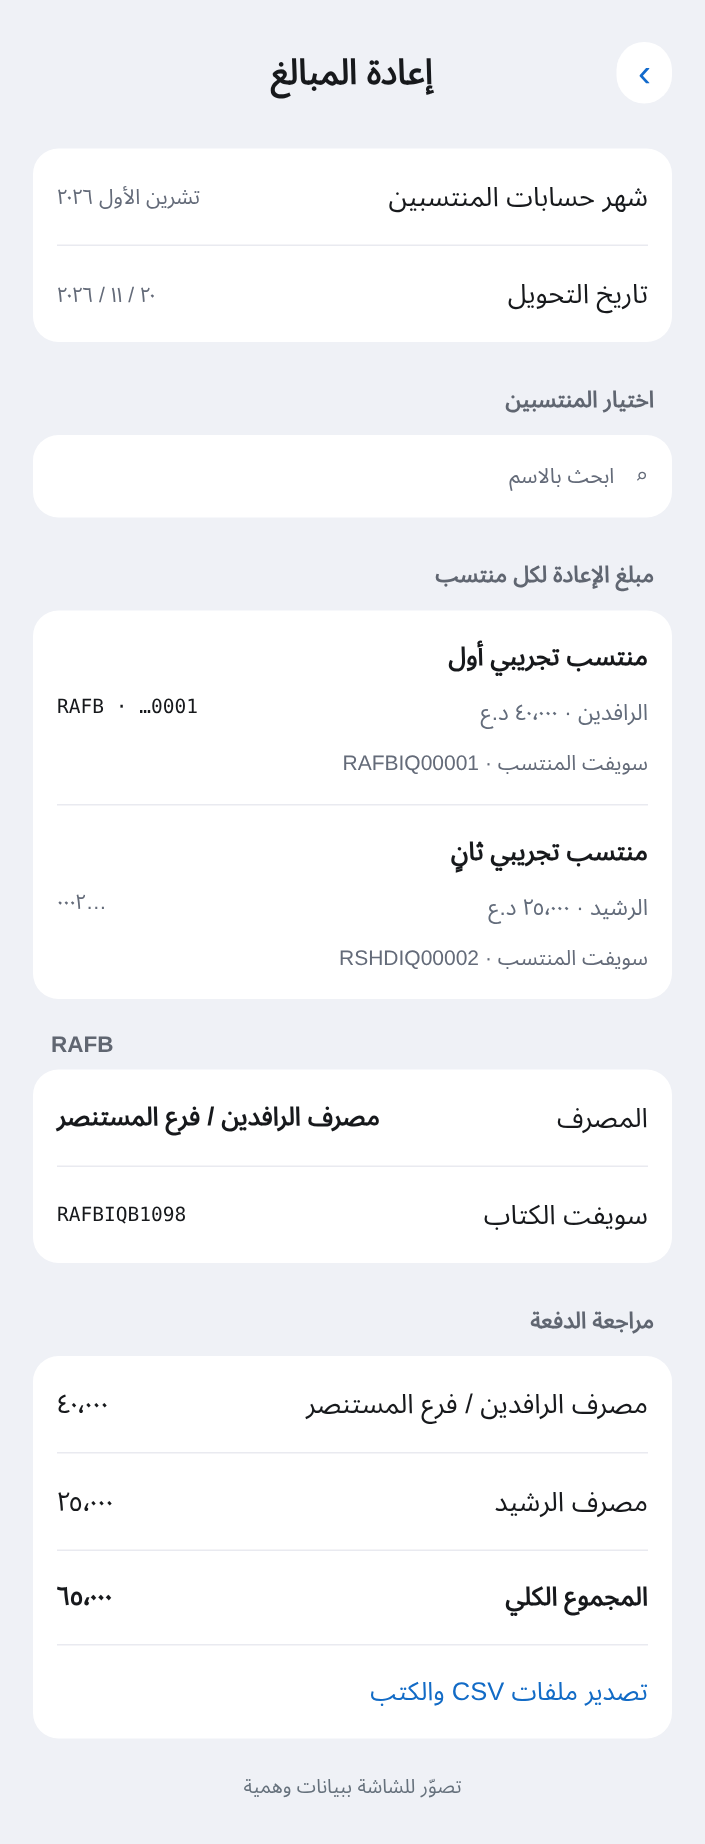
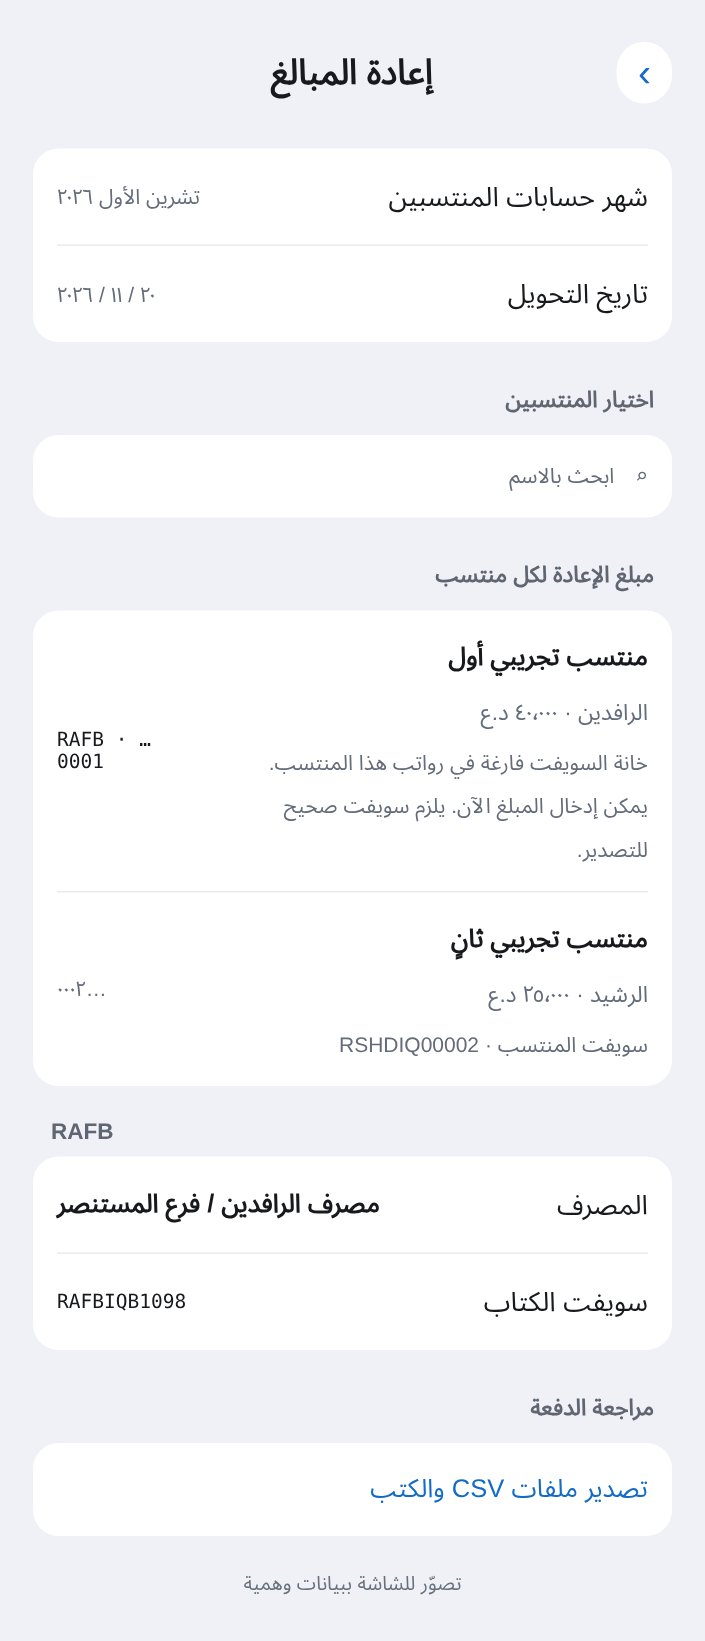
Allow refund drafts with unresolved payroll SWIFT and explain the issue

diff --git a/SalaryApp/EmployeeRefund.swift b/SalaryApp/EmployeeRefund.swift
@@ -8,7 +8,25 @@ nonisolated struct RefundPerson: Hashable, Sendable {
     let workplace: String
     let iban: String
     let bank: String
-    let payrollBIC: String
+    let payrollBIC: RefundPayrollBIC
+
+    var bicWarning: String? { payrollBIC.warning(bankCode: EmployeeRefund.bankCode(iban)) }
+}
+
+nonisolated enum RefundPayrollBIC: Hashable, Sendable {
+    case missingColumn, empty, conflicting, value(String)
+
+    func warning(bankCode: String?) -> String? {
+        switch self {
+        case .missingColumn: return tr("لم يُتعرّف على عمود السويفت في صف الراتب المحفوظ.", "No recognized SWIFT column in the saved payroll row.")
+        case .empty: return tr("خانة السويفت فارغة في رواتب هذا المنتسب.", "The employee’s payroll SWIFT field is empty.")
+        case .conflicting: return tr("صف الراتب يحتوي أكثر من رمز سويفت مختلف.", "The payroll row contains conflicting SWIFT codes.")
+        case .value(let bic):
+            guard TransferRules.validBIC(bic) else { return tr("صيغة سويفت المنتسب غير صالحة.", "The employee’s SWIFT format is invalid.") }
+            if let bankCode, !bic.hasPrefix(bankCode + "IQ") { return tr("سويفت المنتسب لا يطابق مصرف الآيبان.", "The employee’s SWIFT does not match the IBAN bank.") }
+            return nil
+        }
+    }
 }
 
 nonisolated struct RefundBank: Equatable, Sendable {
@@ -70,21 +88,22 @@ nonisolated enum EmployeeRefund {
     ].map(headerKey))
 
     // الأعمدة الأصلية تشمل الحقول غير المعروفة وقت الاستيراد وتحتفظ بالعناوين المكررة.
-    static func payrollBIC(details: [String: String], columns: PayrollColumnSnapshot?) -> String {
+    static func payrollBIC(details: [String: String], columns: PayrollColumnSnapshot?) -> RefundPayrollBIC {
+        var foundColumn = false
         var codes = Set<String>()
         func collect(_ header: String, _ value: String) {
             guard bicHeaders.contains(headerKey(header)) else { return }
-            let code = ArabicText.latinDigits(value.trimmingCharacters(in: .whitespacesAndNewlines)).uppercased()
+            foundColumn = true
+            let clean = value.unicodeScalars.filter { $0.properties.generalCategory != .format }
+            let code = ArabicText.latinDigits(String(String.UnicodeScalarView(clean)).trimmingCharacters(in: .whitespacesAndNewlines)).uppercased()
             if !code.isEmpty { codes.insert(code) }
         }
         for (header, value) in details { collect(header, value) }
         if let columns {
             for (header, value) in zip(columns.headers, columns.values) { collect(header, value) }
         }
-        return codes.count == 1 ? codes.first ?? "" : ""
-    }
-    static func validPayrollBIC(_ bic: String, bankCode: String) -> Bool {
-        TransferRules.validBIC(bic) && bic.hasPrefix(bankCode + "IQ")
+        guard let first = codes.first else { return foundColumn ? .empty : .missingColumn }
+        return codes.count == 1 ? .value(first) : .conflicting
     }
     static func amount(_ value: String) -> Int64? {
         let clean = ArabicText.latinDigits(value.trimmingCharacters(in: .whitespacesAndNewlines)).replacingOccurrences(of: "٬", with: ",")
@@ -109,9 +128,9 @@ nonisolated enum EmployeeRefund {
             guard let code = bankCode(iban), iban != account, TransferRules.safeField(name) else {
                 throw error("راجع اسم المنتسب وآيبانه: " + name, "Check employee name and IBAN: " + name)
             }
-            guard validPayrollBIC(entry.person.payrollBIC, bankCode: code) else {
-                throw error("راجع سويفت المنتسب في ملف الرواتب ثم أعد استيراد الشهر: " + name,
-                            "Check this employee’s SWIFT in payroll and reimport the month: " + name)
+            guard case .value(let bic) = entry.person.payrollBIC, entry.person.bicWarning == nil else {
+                let reason = entry.person.bicWarning ?? tr("راجع السويفت.", "Check SWIFT.")
+                throw error(name + " — " + reason, name + " — " + reason)
             }
             guard seen.insert(iban).inserted else {
                 throw error("الآيبان مكرر بين المستفيدين: " + name, "Repeated beneficiary IBAN: " + name)
@@ -120,7 +139,7 @@ nonisolated enum EmployeeRefund {
                 throw error("راجع المبلغ بالدينار للمنتسب: " + name, "Check the IQD amount for " + name)
             }
             total += value
-            groups[code, default: []].append(Payment(name: name, iban: iban, amount: value, bic: entry.person.payrollBIC))
+            groups[code, default: []].append(Payment(name: name, iban: iban, amount: value, bic: bic))
         }
         let result: [Group] = try groups.keys.sorted().map { code in
             guard let bank = (code == rafidainCode ? rafidainBank : banks[code]), let payments = groups[code] else { throw error("بيانات المصرف ناقصة: " + code, "Missing bank: " + code) }

diff --git a/ci/employee_refund_test/main.swift b/ci/employee_refund_test/main.swift
@@ -9,7 +9,7 @@ func iban(_ code: String, _ serial: Int) -> String {
 }
 func entry(_ code: String, _ serial: Int, _ amount: String, bic: String? = nil) -> EmployeeRefund.Entry {
     .init(person: .init(name: "منتسب تجريبي " + String(serial), rank: "", workplace: "", iban: iban(code, serial), bank: code,
-        payrollBIC: bic ?? code + "IQ00" + String(format: "%03d", serial)), amount: amount)
+        payrollBIC: .value(bic ?? code + "IQ00" + String(format: "%03d", serial))), amount: amount)
 }
 let payer = iban("RAFB", 99)
 let entries = [entry("RAFB", 1, "١٠٬٠٠٠"), entry("RSHD", 2, "4,000"), entry("OTHR", 3, "2500"), entry("RSHD", 4, "500")]
@@ -52,7 +52,7 @@ for group in batch.groups {
     let csv = EmployeeRefund.csv(group, batch: batch, day: "20260101")
     for line in String(decoding: csv, as: UTF8.self).components(separatedBy: "\r\n").dropFirst() {
         let fields = line.components(separatedBy: "|")
-        precondition(fields.count == 11 && refs.insert(fields[0]).inserted && entries.contains { $0.person.iban == fields[8] && $0.person.payrollBIC == fields[6] })
+        precondition(fields.count == 11 && refs.insert(fields[0]).inserted && entries.contains { $0.person.iban == fields[8] && $0.person.payrollBIC == .value(fields[6]) })
         precondition(EmployeeRefund.bankCode(fields[8]) == group.code && fields[9].contains("إعادة"))
         precondition(expectedAmounts.removeValue(forKey: fields[8]) == fields[4])
         csvSum += Int64(fields[4])!
@@ -84,10 +84,10 @@ precondition(EmployeeRefund.csv(changed.groups[0], batch: changed, day: "2026010
 
 // تُستخدم خلايا الرواتب المحفوظة في اللقطة حتى لو سبق الاستيراد هذه الميزة.
 let raw = PayrollColumnSnapshot.decode(PayrollColumnSnapshot.encode(headers: ["IBAN","رمز السويفت","Receiver BIC"], values: ["ignored"," rshdiq00002 ","RSHDIQ٠٠٠٠٢"]))
-precondition(EmployeeRefund.payrollBIC(details: [:], columns: raw) == "RSHDIQ00002")
-precondition(EmployeeRefund.payrollBIC(details: ["Swift_Code":"rshdiq00"], columns: nil) == "RSHDIQ00")
-precondition(EmployeeRefund.payrollBIC(details: ["BIC":"RSHDIQ00004"], columns: raw).isEmpty)
-precondition(EmployeeRefund.payrollBIC(details: ["رمز الفرع":"002"], columns: nil).isEmpty)
+precondition(EmployeeRefund.payrollBIC(details: [:], columns: raw) == .value("RSHDIQ00002"))
+precondition(EmployeeRefund.payrollBIC(details: ["Swift_Code":"rshdiq00"], columns: nil) == .value("RSHDIQ00"))
+precondition(EmployeeRefund.payrollBIC(details: ["BIC":"RSHDIQ00004"], columns: raw) == .conflicting)
+precondition(EmployeeRefund.payrollBIC(details: ["رمز الفرع":"002"], columns: nil) == .missingColumn)
 for bad in ["", "RSHDIQ0", "OTHRIQ00002"] {
     precondition((try? plan([entry("RSHD", 2, "100", bic: bad)])) == nil)
 }
@@ -95,3 +95,6 @@ let twoRaf = try plan([entries[0], entry("RAFB", 7, "100")], [:])
 let rafCSV = String(decoding: EmployeeRefund.csv(twoRaf.groups[0], batch: twoRaf, day: "20260101"), as: UTF8.self)
 precondition(twoRaf.groups.count == 1 && rafCSV.contains("|RAFBIQ00001|") && rafCSV.contains("|RAFBIQ00007|"))
 precondition(!rafCSV.contains("|RAFBIQB1098|"))
+
+precondition(EmployeeRefund.payrollBIC(details: ["SWIFT":"  "], columns: nil) == .empty)
+precondition(EmployeeRefund.payrollBIC(details: ["SWIFT":"\u{200f}RAFBiq00\u{200e}"], columns: nil) == .value("RAFBIQ00"))

diff --git a/SalaryApp/EmployeeRefundView.swift b/SalaryApp/EmployeeRefundView.swift
@@ -48,7 +48,7 @@ struct EmployeeRefundView: View {
                                 }.buttonStyle(.borderless)
                             }
                             Text(row.candidate.person.iban).font(.caption.monospaced()).privacySensitive()
-                            LabeledContent(tr("سويفت المنتسب", "Employee SWIFT"), value: row.candidate.person.payrollBIC)
+                            RefundPayrollBICLabel(person: row.candidate.person)
                             TextField(tr("المبلغ بالدينار", "Amount in IQD"), text: $row.amount).keyboardType(.numberPad)
                         }
                     }
@@ -131,7 +131,6 @@ struct EmployeeRefundView: View {
         let selected = draft.rows.contains { $0.id == candidate.id }
         let person = candidate.person
         let code = EmployeeRefund.bankCode(person.iban)
-        let validBIC = code.map { EmployeeRefund.validPayrollBIC(person.payrollBIC, bankCode: $0) } ?? false
         return Button {
             if selected { draft.remove(candidate.id) }
             else {
@@ -143,15 +142,15 @@ struct EmployeeRefundView: View {
                 VStack(alignment: .leading) {
                     Text(person.name)
                     Text([person.rank, person.workplace, person.bank].filter { !$0.isEmpty }.joined(separator: " · ")).font(.caption).foregroundStyle(.secondary)
-                    if code != nil && !validBIC {
-                        Text(tr("راجع خانة السويفت في رواتب المنتسب", "Check SWIFT in the payroll row")).font(.caption).foregroundStyle(.orange)
+                    if code != nil, let warning = person.bicWarning {
+                        Text(warning).font(.caption).foregroundStyle(.orange)
                     }
                     Text(code.map { $0 + " · …" + person.iban.suffix(4) } ?? tr("آيبان مفقود أو غير صالح", "Missing or invalid IBAN")).font(.caption)
                 }
                 Spacer()
                 Image(systemName: selected ? "checkmark.circle.fill" : "circle")
             }
-        }.disabled(!validBIC && !selected)
+        }.disabled(code == nil && !selected)
     }
 
     private func bankField(_ code: String, _ field: WritableKeyPath<RefundBank, String>) -> Binding<String> {
@@ -188,5 +187,19 @@ struct EmployeeRefundView: View {
                 } catch { self.error = error.localizedDescription }
             }
         } catch { self.error = error.localizedDescription }
+    }
+}
+
+struct RefundPayrollBICLabel: View {
+    let person: RefundPerson
+    var body: some View {
+        if let warning = person.bicWarning {
+            Label(warning, systemImage: "exclamationmark.triangle")
+                .font(.caption).foregroundStyle(.orange)
+            Text(tr("يمكن إدخال المبلغ الآن. يلزم سويفت صحيح للتصدير.", "You can enter the amount now. Export requires a valid SWIFT."))
+                .font(.caption).foregroundStyle(.secondary)
+        } else if case .value(let bic) = person.payrollBIC {
+            LabeledContent(tr("سويفت المنتسب", "Employee SWIFT"), value: bic)
+        }
     }
 }

diff --git a/SalaryApp/RefundSearchEntrySheet.swift b/SalaryApp/RefundSearchEntrySheet.swift
@@ -33,7 +33,7 @@ struct RefundSearchEntrySheet: View {
                         LabeledContent(tr("شهر الرواتب", "Payroll month"), value: candidate.month)
                         LabeledContent(tr("المصرف", "Bank"), value: person.bank)
                         LabeledContent("IBAN", value: "…" + person.iban.suffix(4)).privacySensitive()
-                        LabeledContent(tr("سويفت المنتسب", "Employee SWIFT"), value: person.payrollBIC)
+                        RefundPayrollBICLabel(person: person)
                     }
                     Section {
                         TextField(tr("مبلغ الإعادة بالدينار", "Refund amount in IQD"), text: $amount)
@@ -45,7 +45,7 @@ struct RefundSearchEntrySheet: View {
                             save(candidate)
                         }
                         .accessibilityIdentifier("saveSearchRefund")
-                        .disabled(EmployeeRefund.amount(amount) == nil || !eligible(candidate) || saving || draft.working)
+                        .disabled(EmployeeRefund.amount(amount) == nil || EmployeeRefund.bankCode(person.iban) == nil || saving || draft.working)
                     }
                 } else if error == nil {
                     ProgressView()
@@ -72,17 +72,13 @@ struct RefundSearchEntrySheet: View {
                 try Task.checkCancellation()
                 candidate = result
                 amount = draft.rows.first { $0.id == result.id }?.amount ?? ""
-                if !eligible(result) {
-                    error = tr("راجع الآيبان والسويفت في رواتب هذا المنتسب.", "Check the IBAN and SWIFT in this employee’s payroll row.")
+                if EmployeeRefund.bankCode(result.person.iban) == nil {
+                    error = tr("راجع الآيبان في رواتب هذا المنتسب.", "Check the IBAN in this employee’s payroll row.")
                 }
             } catch {
                 if !Task.isCancelled { self.error = error.localizedDescription }
             }
         }
-    }
-    private func eligible(_ candidate: RefundCandidate) -> Bool {
-        guard let code = EmployeeRefund.bankCode(candidate.person.iban) else { return false }
-        return EmployeeRefund.validPayrollBIC(candidate.person.payrollBIC, bankCode: code)
     }
     private func save(_ candidate: RefundCandidate) {
         guard !saving else { return }

diff --git a/ci/employee_refund_test/DraftTest.swift b/ci/employee_refund_test/DraftTest.swift
@@ -44,6 +44,17 @@ import SwiftData
         draft.remove(two.id)
         draft.clear()
         precondition(draft.month == nil && draft.rows.isEmpty)
+        let incomplete = try employee("A", "مستفيد تجريبي", fakeIBAN(9))
+        incomplete.detailsData = try JSONEncoder().encode(["IBAN": fakeIBAN(9)])
+        try context.save()
+        let revised = RefundPayrollSearch(modelContainer: container)
+        let pending = try await revised.searchResult(.init(id: incomplete.persistentModelID, key: incomplete.matchKey, month: "A"), month: "A")
+        precondition(pending.person.payrollBIC == .missingColumn)
+        try draft.add(pending)
+        try draft.add(pending, amount: "2500")
+        precondition(draft.rows.count == 1 && draft.rows[0].amount == "2500")
+        let entries = draft.rows.map { EmployeeRefund.Entry(person: $0.candidate.person, amount: $0.amount) }
+        precondition((try? EmployeeRefund.plan(entries: entries, banks: [:], payer: "دافع", account: fakeIBAN(8), source: "")) == nil)
         print("Shared refund draft selection, editing, month resolution and ambiguity checks passed.")
     }
 }

diff --git a/SalaryApp/RefundDraft.swift b/SalaryApp/RefundDraft.swift
@@ -25,8 +25,8 @@ import SwiftData
         guard !working, month == nil || month == candidate.month else {
             throw EmployeeRefund.error("راجع الدفعة الحالية وشهر الرواتب قبل الإضافة.", "Check the active batch and its payroll month.")
         }
-        guard let code = EmployeeRefund.bankCode(person.iban), EmployeeRefund.validPayrollBIC(person.payrollBIC, bankCode: code) else {
-            throw EmployeeRefund.error("راجع الآيبان والسويفت في رواتب المنتسب.", "Check the employee’s payroll IBAN and SWIFT.")
+        guard let code = EmployeeRefund.bankCode(person.iban) else {
+            throw EmployeeRefund.error("راجع الآيبان في رواتب المنتسب.", "Check the employee’s payroll IBAN.")
         }
         if let amount, EmployeeRefund.amount(amount) == nil {
             throw EmployeeRefund.error("أدخل مبلغاً صحيحاً بالدينار.", "Enter a positive whole amount in IQD.")

diff --git a/AGENTS.md b/AGENTS.md
@@ -120,7 +120,7 @@
 - الربط بين الرواتب والاستقطاعات والملاك بـ `matchKey` = الاسم بعد التوحيد وبلا مسافات.
 
 - الضغط المطوّل على نتيجة رواتب في البحث الشامل يفتح «إضافة إلى دفعة إعادة المبالغ» أو «تعديل مبلغ الإعادة»، وتُراجع نفس مسودة الجلسة من البحث أو ملفات التحويل. تُحفظ اختيارات المسودة في الذاكرة أثناء تشغيل التطبيق وتلتزم بشهر الرواتب الأول.
-- **إعادة المبالغ (الآيفون):** التقارير ← ملفات التحويل ← إعادة المبالغ. يختار المستخدم منتسبين من شهر الرواتب المعروض ويدخل مبلغاً مستقلاً بالدينار لكل اسم. يبدأ مبلغ المنتسب الجديد فارغاً ويلزم إدخاله قبل التصدير. تُقرأ آيباناتهم من صفوف الرواتب ويُعاد التحقق من اختيارهم قبل التصدير. ملف CSV مستقل لكل رمز مصرف في الآيبان، وكتاب للرافدين RAFB وكتاب واحد للرشيد وسائر المصارف، لكل مجموعة موجودة فقط. لإعادات الرافدين حصراً، الوجهة ثابتة «مصرف الرافدين / فرع المستنصر» برمز RAFBIQB1098 في متن الكتاب. في جميع ملفات إعادة المبالغ CSV يؤخذ Receiver BIC من صف المنتسب نفسه في رواتب الشهر، بما فيه رمز فرعه، ويؤخذ آيبانه من الصف نفسه. اختلاف الفروع لا يقسم ملف المصرف، وسويفت الكتاب مستقل. يوقف التصدير عند فقد السويفت أو تعارضه أو عدم مطابقته للمصرف. كلا الكتابين يخاطب فرع الأنبار ويذكر مبلغ مجموعته رقماً وكتابةً وعدد منتسبيها ومرفق قرص CD. يرد جدول المصارف والأعداد والمبالغ والسويفت في كتاب المصارف الأخرى. جدول الكتاب ومجموعه من الدفعة نفسها؛ يمنع تكرار آيبان أو إرسال ملف ناقص. لا تخصم هذه المبالغ من الرواتب أو سجلات الاستقطاع. الميزة تجهّز ملفات، ولا تسجل تنفيذ حركة مصرفية.
+- **إعادة المبالغ (الآيفون):** التقارير ← ملفات التحويل ← إعادة المبالغ. يختار المستخدم منتسبين من شهر الرواتب المعروض ويدخل مبلغاً مستقلاً بالدينار لكل اسم. يبدأ مبلغ المنتسب الجديد فارغاً ويلزم إدخاله قبل التصدير. تُقرأ آيباناتهم من صفوف الرواتب ويُعاد التحقق من اختيارهم قبل التصدير. ملف CSV مستقل لكل رمز مصرف في الآيبان، وكتاب للرافدين RAFB وكتاب واحد للرشيد وسائر المصارف، لكل مجموعة موجودة فقط. لإعادات الرافدين حصراً، الوجهة ثابتة «مصرف الرافدين / فرع المستنصر» برمز RAFBIQB1098 في متن الكتاب. في جميع ملفات إعادة المبالغ CSV يؤخذ Receiver BIC من صف المنتسب نفسه في رواتب الشهر، بما فيه رمز فرعه، ويؤخذ آيبانه من الصف نفسه. اختلاف الفروع لا يقسم ملف المصرف، وسويفت الكتاب مستقل. يمكن اختيار المنتسب صاحب الآيبان الصحيح وإدخال مبلغ المسودة عند وجود تنبيه سويفت. يوقف التصدير عند فقد السويفت أو تعارضه أو عدم مطابقته للمصرف. كلا الكتابين يخاطب فرع الأنبار ويذكر مبلغ مجموعته رقماً وكتابةً وعدد منتسبيها ومرفق قرص CD. يرد جدول المصارف والأعداد والمبالغ والسويفت في كتاب المصارف الأخرى. جدول الكتاب ومجموعه من الدفعة نفسها؛ يمنع تكرار آيبان أو إرسال ملف ناقص. لا تخصم هذه المبالغ من الرواتب أو سجلات الاستقطاع. الميزة تجهّز ملفات، ولا تسجل تنفيذ حركة مصرفية.
 
 ### الكشوف المصدّرة (A4، اتجاه حسب عرض الأعمدة)
 - **الخط المعتمد: Arial** في PDF وExcel، بما يشمل العناوين والجداول والمبالغ والتذييل. في PDF استخدم `ReportFont.regular` و`ReportFont.bold` للرسم وقياس الأعمدة، مع إبقاء أحجام الخط ونماذج الكشوف المعتمدة.
